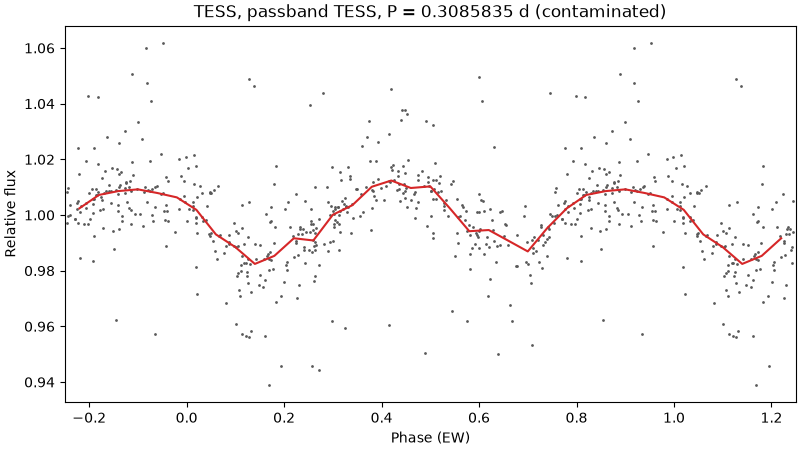
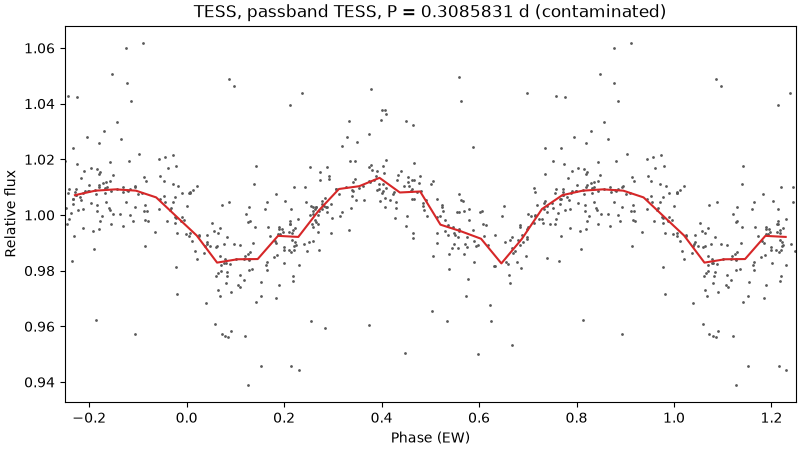
docs(guide): bring ASAS-SN into part 1's figures and text, and explain the two rules it forced (NEU-2186)
Re-run notebook 02 in the jupyter service so every figure carries ASAS-SN V
and g, with submission.png leading with the range band as propose does.

Chapter 3 says where ASAS-SN appears, adds the clean-source rule to
Agreement, rewrites the CSS_J160212.7+530724 blend for it (four
contaminated sources weigh 2.0, none clean), and explains the range band
and epoch band behind submission.png.

Chapter 4 re-dates the results table to a 2026-11-05 run with all five
sources (27 of 27 pass, ASAS-SN in 19 of 20 positives' Agreements), adds
a "What ASAS-SN changed" section and two threshold rows for the
clean-source rule and ASAS-SN's exclusion from the variability check,
and reports that one constant's ZTF g band now folds at 0.60 and votes
alone, under the 0.75 cut-off.

diff --git a/docs/guide/04-can-you-trust-it.md b/docs/guide/04-can-you-trust-it.md
@@ -34,38 +34,39 @@ constant must reach no Agreement or be flagged `blend_suspect`. A star the pipel
 known to fail is listed in the test with its reason, and the test fails if it ever starts
 passing, so the list has to be kept honest.
 
-## The results, 2026-10-20
+## The results, 2026-11-05
 
-Run on the committed fixtures with ZTF g, ZTF r, TESS and Gaia's published period. ASAS-SN
-was unavailable (NEU-1796). Flags are the blend check's: *blend* is `blend_suspect` (ZTF
-and Gaia), *asassn* and *tess* the other two surveys' contamination flags. They are judged
-from the Gaia catalogue, so the ASAS-SN flag is set even though no ASAS-SN Light Curve
-exists.
+Run on the committed fixtures with all five sources: ZTF g, ZTF r, ASAS-SN (V and g, one
+source), TESS and Gaia's published period. ASAS-SN joined the fixtures on 2026-11-02; this
+run also carries the TESS binning of NEU-2187. *Relation* is the Agreement's own: 2:1 when
+some sources found half the period and others the whole. Flags are the blend check's:
+*blend* is `blend_suspect` (ZTF and Gaia), *asassn* and *tess* the other two surveys'
+contamination flags.
 
 | Star | Role | VSX type | VSX period (d) | Agreed period (d) | Relation | Sources | Flags | CMD region | Gate |
 | --- | --- | --- | ---: | ---: | --- | --- | --- | --- | --- |
-| NSVS 2887379 | positive | EW | 0.27930 | 0.27929 | 2:1 | ZTF g, ZTF r, TESS, Gaia | tess | main sequence | passes |
-| ASASSN-V J164726.16+724659.3 | positive | EW | 0.30085 | 0.30085 | 1:1 | ZTF g, ZTF r, Gaia | tess | main sequence | passes |
-| LINEAR 20427289 | positive | EW | 0.31915 | 0.31915 | 1:1 | ZTF g, ZTF r, Gaia | tess | main sequence | passes |
-| ASASSN-V J163706.32+633921.6 | positive | EA | 1.30324 | 1.30330 | 1:1 | ZTF g, ZTF r, TESS, Gaia | tess | main sequence | passes |
-| DW Dra | positive | EA | 1.22625 | 1.22633 | 1:1 | ZTF g, ZTF r, TESS, Gaia | tess | main sequence | passes |
-| T-Dra0-09947 | positive | EA | 0.40982 | 0.40982 | 1:1 | ZTF g, ZTF r, TESS, Gaia | tess | main sequence | passes |
-| 1SWASP J191601.56+560055.3 | positive | EB | 0.32202 | 0.32202 | 1:1 | ZTF g, ZTF r, TESS, Gaia | asassn, tess | main sequence | passes |
-| CSS_J173907.6+550053 | positive | RRAB | 0.48585 | 0.48586 | 1:1 | ZTF g, ZTF r, Gaia | tess | instability strip | passes |
-| V0364 Dra | positive | RRAB | 0.47704 | 0.47705 | 1:1 | ZTF g, ZTF r, TESS, Gaia | tess | instability strip | passes |
-| V0502 Dra | positive | RRAB | 0.48013 | 0.48012 | 1:1 | ZTF g, ZTF r, TESS, Gaia | tess | instability strip | passes |
-| ASASSN-V J163919.05+740125.0 | positive | RRAB | 0.48897 | 0.48896 | 1:1 | ZTF g, ZTF r, TESS, Gaia | tess | instability strip | passes |
-| V0379 Dra | positive | RRC | 0.35762 | 0.35757 | 1:1 | ZTF g, ZTF r, TESS, Gaia | – | instability strip | passes |
-| ASASSN-V J164540.98+652508.2 | positive | RRC | 0.42448 | 0.42449 | 1:1 | ZTF g, ZTF r, Gaia | tess | unknown | passes |
-| ASASSN-V J170333.89+604850.1 | positive | DSCT | 0.05032 | 0.05032 | 1:1 | ZTF g, ZTF r, TESS, Gaia | tess | instability strip | passes |
-| V0553 Dra | positive | HADS | 0.17198 | 0.17198 | 1:1 | ZTF g, ZTF r | – | instability strip | passes |
-| KO Cep | positive | DCEP | 4.55809 | 4.55813 | 1:1 | ZTF g, ZTF r, TESS, Gaia | tess | giant branch | passes |
-| ASASSN-V J194707.50+750321.7 | positive | SR | 55.50 | 55.14 | 1:1 | ZTF g, ZTF r | tess | giant branch | passes |
-| ASASSN-V J192915.72+664402.8 | positive | SR | 42.25 | 42.26 | 1:1 | ZTF g, ZTF r | tess | giant branch | passes |
-| ASASSN-V J164537.58+592828.7 | positive | ROT | 12.09 | 12.122 | 1:1 | ZTF g, ZTF r, TESS | tess | main sequence | passes |
+| NSVS 2887379 | positive | EW | 0.27930 | 0.27929 | 2:1 | ZTF g, ZTF r, ASAS-SN, TESS, Gaia | tess | main sequence | passes |
+| ASASSN-V J164726.16+724659.3 | positive | EW | 0.30085 | 0.30085 | 2:1 | ZTF g, ZTF r, ASAS-SN, Gaia | tess | main sequence | passes |
+| LINEAR 20427289 | positive | EW | 0.31915 | 0.31915 | 2:1 | ZTF g, ZTF r, ASAS-SN, Gaia | tess | main sequence | passes |
+| ASASSN-V J163706.32+633921.6 | positive | EA | 1.30324 | 1.30329 | 1:1 | ZTF g, ZTF r, ASAS-SN, TESS, Gaia | tess | main sequence | passes |
+| DW Dra | positive | EA | 1.22625 | 1.22633 | 1:1 | ZTF g, ZTF r, ASAS-SN, TESS, Gaia | tess | main sequence | passes |
+| T-Dra0-09947 | positive | EA | 0.40982 | 0.40982 | 1:1 | ZTF g, ZTF r, ASAS-SN, TESS, Gaia | tess | main sequence | passes |
+| 1SWASP J191601.56+560055.3 | positive | EB | 0.32202 | 0.32202 | 1:1 | ZTF g, ZTF r, ASAS-SN, TESS, Gaia | asassn, tess | main sequence | passes |
+| CSS_J173907.6+550053 | positive | RRAB | 0.48585 | 0.48586 | 1:1 | ZTF g, ZTF r, ASAS-SN, Gaia | tess | instability strip | passes |
+| V0364 Dra | positive | RRAB | 0.47704 | 0.47704 | 1:1 | ZTF g, ZTF r, ASAS-SN, TESS, Gaia | tess | instability strip | passes |
+| V0502 Dra | positive | RRAB | 0.48013 | 0.48012 | 1:1 | ZTF g, ZTF r, ASAS-SN, TESS, Gaia | tess | instability strip | passes |
+| ASASSN-V J163919.05+740125.0 | positive | RRAB | 0.48897 | 0.48896 | 1:1 | ZTF g, ZTF r, ASAS-SN, TESS, Gaia | tess | instability strip | passes |
+| V0379 Dra | positive | RRC | 0.35762 | 0.35757 | 1:1 | ZTF g, ZTF r, ASAS-SN, TESS, Gaia | – | instability strip | passes |
+| ASASSN-V J164540.98+652508.2 | positive | RRC | 0.42448 | 0.42449 | 1:1 | ZTF g, ZTF r, ASAS-SN, Gaia | tess | unknown | passes |
+| ASASSN-V J170333.89+604850.1 | positive | DSCT | 0.05032 | 0.05032 | 1:1 | ZTF g, ZTF r, ASAS-SN, TESS, Gaia | tess | instability strip | passes |
+| V0553 Dra | positive | HADS | 0.17198 | 0.17198 | 1:1 | ZTF g, ZTF r, ASAS-SN | – | instability strip | passes |
+| KO Cep | positive | DCEP | 4.55809 | 4.55814 | 1:1 | ZTF g, ZTF r, ASAS-SN, TESS, Gaia | tess | giant branch | passes |
+| ASASSN-V J194707.50+750321.7 | positive | SR | 55.50 | 55.27 | 1:1 | ZTF g, ZTF r, ASAS-SN | tess | giant branch | passes |
+| ASASSN-V J192915.72+664402.8 | positive | SR | 42.25 | 42.25 | 1:1 | ZTF g, ZTF r, ASAS-SN | tess | giant branch | passes |
+| ASASSN-V J164537.58+592828.7 | positive | ROT | 12.09 | 12.111 | 1:1 | ZTF g, ZTF r, ASAS-SN, TESS | tess | main sequence | passes |
 | ASASSN-V J183551.48+614330.1 | positive | ROT | 2.53156 | 2.53305 | 1:1 | ZTF g, ZTF r | tess | main sequence | passes |
-| PS1-3PI J190107.42+492456.3 | alias trap | RRC | 0.46287 | 0.31617 | 1:1 | ZTF g, ZTF r, Gaia | tess | instability strip | passes |
-| CSS_J181701.4+514940 | alias trap | EW | 0.44657 | 0.30858 | 2:1 | ZTF g, ZTF r, TESS, Gaia | tess | main sequence | passes |
+| PS1-3PI J190107.42+492456.3 | alias trap | RRC | 0.46287 | 0.31616 | 1:1 | ZTF g, ZTF r, ASAS-SN, Gaia | tess | instability strip | passes |
+| CSS_J181701.4+514940 | alias trap | EW | 0.44657 | 0.30858 | 2:1 | ZTF g, ZTF r, ASAS-SN, TESS, Gaia | tess | main sequence | passes |
 | CSS_J160212.7+530724 | blend | EW | 0.31802 | – | – | – | asassn, blend, tess | unknown | passes |
 | CSS_J172350.6+504650 | blend | EW | 0.27008 | – | – | – | asassn, blend, tess | unknown | passes |
 | Gaia DR3 1435854639894380800 | constant | – | – | – | – | – | tess | giant branch | passes |
@@ -82,8 +83,13 @@ same table with the votes.
 differ in the fifth decimal for short periods, which is the precision seven years of ZTF
 buys, and by a fraction of a percent for the two semiregulars at 42 and 55 days, where a
 peak cannot be narrower. Fifteen of the twenty had a Gaia published period to vote with,
-and Gaia agreed with the surveys every time. One, NSVS 2887379, passed through a 2:1
-Agreement: ZTF r settled at half the period while the other three found the whole.
+and Gaia agreed with the surveys every time. ASAS-SN voted in nineteen of the twenty
+Agreements; the twentieth, ASASSN-V J183551.48+614330.1, is a faint rotator whose
+ASAS-SN folds explain too little to vote, and it agrees from ZTF g and r alone. Three
+contact binaries passed through a 2:1 Agreement. In each, ASAS-SN settled at half the
+period (for NSVS 2887379, one of its two bands, and ZTF r with it), where an `EW` star's
+two nearly equal eclipses fold onto each other (chapter 2's *Half periods*); the other
+sources found the whole, and the rule took the whole.
 
 **Both alias traps resolved to the true period.** PS1-3PI J190107.42+492456.3 is an RR
 Lyrae star VSX lists at 0.46287 days; the pipeline found 0.31617, the period VSX's value
@@ -91,13 +97,22 @@ is a 1-day alias of, from ZTF g, ZTF r and Gaia. CSS_J181701.4+514940 is the cas
 chapters 2 and 3. These test the one thing the bulk imports could not do: choose the
 right peak when the tallest one is wrong.
 
-**Both blends reached no Agreement and were flagged.** Every ground-based survey of each
-was flagged by the neighbour within 1.5″, and three half-weight votes fall short of two.
-These test whether the Gaia neighbour list reaches the pipeline and is used.
+**Both blends reached no Agreement and were flagged.** Every survey of each was flagged:
+ZTF, Gaia and ASAS-SN by the neighbour within 1.5″, TESS by its crowded field. All four
+sources, ZTF g, ZTF r, ASAS-SN and TESS, voted for the neighbour's period or half of it. Four half-weight votes add up to 2.0, which is
+all the weight an Agreement needs, and when ASAS-SN first arrived, before the clean-source
+rule, both blends got through that way. What stops them now is that not one of the four is
+clean (chapter 3, section 3.5). These test whether the Gaia neighbour list reaches the pipeline
+and is used.
 
-**The three constant stars cast no votes at all.** Each ZTF band's best fold scored 0.82
-to 0.99, above the 0.75 cut-off, so no period was offered and nothing could agree. These
-test whether the pipeline can say *nothing here*, which the bulk imports also could not.
+**The three constant stars reached no Agreement.** Every ASAS-SN and TESS band of the
+three folded at 0.97 to 0.99, and five of their six ZTF bands at 0.82 to 0.99, all above
+the 0.75 cut-off, so none of those offered a period. The sixth, ZTF g of Gaia DR3
+1435683567052954368, folds at 0.60 at 0.113 days, a 1-day alias of a box-fit peak in its
+own Light Curve, and so it votes. Nothing votes with it, so nothing is agreed: the cut-off
+let a band through, and the two-source rule caught it, which is the reason there are two
+rules. These test whether the pipeline can say *nothing here*, which the bulk imports also
+could not.
 
 ## The one failure, and how it was fixed
 
@@ -124,7 +139,8 @@ with the curve the band's other fields trace; what is left is the field's real z
 difference. On V0364 Dra the median rule said ZTF g's two fields differed by 0.12 mag; at
 equal phase they differ by 0.01. No positive is flagged now, both blends still are, by
 their neighbours, and the ROT star reaches Agreement at 12.122 days from ZTF g, ZTF r and
-TESS: two full votes and a half.
+TESS: two full votes and a half. With ASAS-SN it has a third full vote, and on the
+current run it agrees at 12.111 days.
 
 One caveat belongs with that result. Five of the fields that carried the old flags, with
 median offsets of 0.10 to 0.15 mag and the ROT star's 0.096, have only 2 to 9 points in
@@ -143,6 +159,42 @@ stayed shifted. On the fixtures this changes no gate result, and no positive's Z
 moves by more than 0.01 mag, because every field it moves by more than 0.03 mag holds only
 10 to 40 of its band's 500 points.
 
+## What ASAS-SN changed
+
+When ASAS-SN joined the fixtures on 2026-11-02, the gate failed in two places on its first
+run. Both were rules that had held only because a source was missing, and each was fixed
+with a new rule, not a new number.
+
+**An Agreement needs at least one clean source.** Weighing a contaminated source at half
+was meant to stop a neighbour's period from passing as the Target's. Without ASAS-SN, a
+blend's three contaminated sources weighed 1.5 and fell short of the 2 required. With it,
+four weighed 2.0, and both blends reached Agreement at the neighbour's period; the
+classifier went on to score them `DSCT` and `EW` at Confidence 1.0. The arithmetic was
+right and the reasoning was wrong: when every survey is looking through the same
+neighbour, they agree because they see the same thing, and adding more of them adds
+nothing. So weight is no longer enough on its own. At least one source at the period must
+be clean. On the fixtures this changes only the two blends: every positive and both alias
+traps have a clean ZTF band among their agreeing sources.
+
+**The constant-star check leaves ASAS-SN out.** When no period is agreed, the classifier
+still has to say whether the Target varies at all. A constant star (`CST`) and a slow
+irregular variable (`L`) both lack a period, and what tells them apart is whether the
+magnitudes spread further than their errors explain. That comparison is only as good as
+the errors, and ASAS-SN reports errors smaller than its real scatter: on the three
+constant stars its scatter is 1.8 to 3.2 times its reported error, where ZTF's is 0.95 to
+1.3 times. Measured against ASAS-SN's errors, the constants at G 13.7 and 14.0 seemed to
+spread 2.8 to 3.6 times their noise, well over the 2.0 a constant must stay under and, for
+one of them, past the 3.0 that marks a variable; both scored as irregular variables. So the
+check never measures ASAS-SN. It measures clean ZTF bands, which cover the same years to
+the same depth, and TESS when its field is clean; a Target with neither goes unmeasured
+rather than measured on the wrong errors. A correction factor on ASAS-SN's
+errors was considered and rejected: the understatement falls from 3.2 to 1.8 times
+between G 14 and G 15, and a factor fitted to three stars would describe only those three.
+
+Beyond the two rules, ASAS-SN added a fifth source behind most Agreements and the V-band
+range VSX prefers (chapter 3, section 3.8). No positive's Agreement moved off its
+published period.
+
 ## The thresholds were tuned on these 27 stars
 
 Several numbers in the pipeline are not derived from first principles. They were set
@@ -150,18 +202,21 @@ by looking at these stars, and the margins are thin:
 
 | Threshold | Value | What set it | Margin on the 27 |
 | --- | ---: | --- | --- |
-| Fold scatter above which a band does not vote | 0.75 | The constants' ZTF folds scored 0.82 to 0.99; every voting band of a positive scored 0.71 or less | One band at 0.71 (a δ Scuti star in ZTF r) and one at 0.82: a star either side would move the line |
+| Fold scatter above which a band does not vote | 0.75 | When it was set, the constants' ZTF folds scored 0.82 to 0.99 and every voting band of a positive 0.71 or less | Breached: one constant's ZTF g band now folds at 0.60 and votes, alone. The highest voting band of a positive is still 0.71 (a δ Scuti star in ZTF r) |
 | Period tolerance | 0.1 %, or P / baseline | ZTF g and r came out 0.10 to 0.17 % apart on the same 40-day peak under a fixed 0.1 % rule | Set by two semiregulars |
 | Neighbour radius and brightness for `blend_suspect` | 3″, brighter than G + 2 | VSX's contamination radii, widened for ZTF's seeing and Gaia's BP/RP windows | Both blends have neighbours at 1.2 and 1.5″; nothing tests a neighbour at 2.9″ |
 | ZTF zero-point offset, at equal phase | 0.05 mag | Spec, by assertion; measured at equal phase since NEU-1798 | Fires on none; the largest measured offset on a positive is 0.037 mag (the ROT star's ZTF r) |
 | TESS field brightness | G + 1, or half the Target's light combined | Spec, by assertion | Fires on 25 of 27 |
 | Points needed to search a band | 30 | Spec, by assertion | V0364 Dra's Gaia bands have 32 to 41 |
+| Clean sources among an Agreement's | at least 1 | ASAS-SN's arrival: both blends reached weight 2.0 from four contaminated sources at the neighbour's period | Changes only the two blends; every other Agreement on the 27 has a clean ZTF band among its sources |
+| Surveys the constant-star check measures | clean ZTF and TESS, never ASAS-SN | ASAS-SN's arrival: on the constants ASAS-SN's scatter is 1.8 to 3.2 times its reported errors, ZTF's 0.95 to 1.3 | In ZTF the constants spread at most 1.4 times their errors, under the 2.0 a constant must stay below; measured on ASAS-SN, two of them spread 2.8 to 3.6 times and scored as irregular variables |
 
 The gate is a regression test: it says the pipeline has not got worse on these stars. It
-is not a measurement of how often the pipeline is right on a star it has never seen. Every
-number above may move when ASAS-SN arrives, and will have to be re-examined on the first
-real [Slice](../../CONTEXT.md#selection), where there will be stars of types and periods
-the fixtures do not contain.
+is not a measurement of how often the pipeline is right on a star it has never seen.
+ASAS-SN moved none of the numbers above; it moved the rules instead. On the current run
+one constant's ZTF g band sits under the fold-scatter line. Every number will have to be
+re-examined on the first real [Slice](../../CONTEXT.md#selection), where there will be
+stars of types and periods the fixtures do not contain.
 
 ## What the pipeline cannot know
 
@@ -193,8 +248,13 @@ makes in his [Review](../../CONTEXT.md#proposals-and-review), with the
   published study with better data than any survey. Read the entry before proposing a
   change to it; VSX's rules expect the revision comment to say why the new value is better
   than the old.
-- **Anything ASAS-SN would say.** Until NEU-1796, every Agreement here rests on at most
-  four sources, and the V-band range VSX prefers is not available.
+- **Whether ASAS-SN can see a faint star.** ASAS-SN reaches about 16.5 mag, and the
+  Slice runs to 16. It voted for 19 of the 20 positives, but the one it missed,
+  ASASSN-V J183551.48+614330.1, is at G 15.2, and fainter Targets will lose it more often.
+  When ASAS-SN drops out, an Agreement rests on one source fewer, and when its V band is
+  short of points or contaminated, the range comes from another band, named on the
+  Proposal. A range in V and a range in g are not interchangeable; check which one you
+  are reading.
 
 ## Before the first submission
 

diff --git a/docs/guide/03-reading-the-evidence.md b/docs/guide/03-reading-the-evidence.md
@@ -33,10 +33,11 @@ cannot.
 | **Gaia DR3** | ESA's astrometry mission; a scan of the whole sky, 2014–2017 | G, BP, RP | A few dozen visits over 34 months | 0.7″ | 5–21 mag | Precise positions, so it finds neighbours; parallax and colour for the CMD; its own published period for many stars | Too few visits to settle a period from its photometry alone |
 | **ASAS-SN** | Small telescopes on several continents imaging the whole sky nightly since 2012 | V (to 2018), g (since 2017) | Nightly; 12 years | 8″ pixels, 17″ aperture | 10–16.5 mag | The longest baseline, and the V band VSX prefers for ranges | Coarse pixels, so blends within 17″; our Slice is at its faint end |
 
-ASAS-SN is absent from every figure in this guide. Its light-curve service was down while
-the fixtures were built, and NEU-1796 adds it. When it arrives it will be one more series
-on the combined plot, one more panel on the periodogram, and one more vote in Agreement,
-and V-band ranges for the form.
+ASAS-SN turns up in four places below. Its V and g bands are two more series on the
+combined plot and two more pairs of panels on the periodogram (section 3.3). Together they
+cast one vote in Agreement, because one instrument puts the same aliases into both
+(section 3.5). And when ASAS-SN is not contaminated, its V band is where the Proposal's
+magnitude range is read from, because V is the band VSX prefers for ranges (section 3.8).
 
 **The combined light curve** (`combined.png`) is the first thing to look at: every survey
 on one time axis. The horizontal axis is time in days (BJD_TDB, the time system every
@@ -47,9 +48,11 @@ to the level of the others. Here is V0364 Dra:
 
 ![V0364 Dra, all surveys](figures/v0364-dra/combined.png)
 
-What to notice: ZTF (circles) spans the whole seven years; TESS (dots) comes in dense
-clumps, one per 27-day sector, in the years it happened to point this way; Gaia (squares)
-is a sprinkle of points in 2014–2017. The star scatters over about a magnitude at every
+What to notice: ZTF (circles) spans the whole seven years; ASAS-SN (triangles) reaches
+back further, its V band covering late 2013 to 2018, mostly before ZTF began, and its g
+band running alongside ZTF from 2017; TESS (dots) comes in dense clumps, one per 27-day sector, in the
+years it happened to point this way; Gaia (squares) is a sprinkle of points in 2014–2017.
+The star scatters over about a magnitude at every
 epoch, which is the pulsation seen without a period. The legend already says
 *(contaminated)* against TESS; section 3.6 explains what that means for this star. VSX asks for exactly this plot with a data-mined submission, and forbids one copied
 from a survey's website.
@@ -68,8 +71,10 @@ Before any search, each Light Curve is cleaned (`analysis/clean.py`):
 On the committed fixtures nothing is clipped, because they are trimmed to 500 points a
 band and no two TESS points are close enough; on a full TESS sector it matters. The
 notebook prints the before-and-after count per band. For V0364 Dra every band survives:
-ZTF g and r with 500 points each over 2,770 days, TESS with 500 from sectors spread over
-1,770 days, and Gaia's three bands with 32 to 41 points over 900 days.
+ZTF g and r with 500 points each over 2,770 days, ASAS-SN g with 500 over 2,810 days and
+V with 295 over 1,710, TESS with 499 from sectors spread over 1,770 days (two of its 500
+points fall in one of the 10-minute bins TESS is averaged into after cleaning, NEU-2187),
+and Gaia's three bands with 32 to 41 points over 900 days.
 
 ## 3.3 The periodogram
 
@@ -94,13 +99,13 @@ found it.
 
 ![V0364 Dra periodogram](figures/v0364-dra/periodogram.png)
 
-What to notice for V0364 Dra: the same tall peak at 0.477 days in ZTF g, ZTF r and TESS,
-with the Gaia line on top of it. Now look at the dashed lines in the ZTF panels: there is
-a peak under every one of them. At 0.32 days and 0.24 days, at 0.95 days, even at 10
+What to notice for V0364 Dra: the same tall peak at 0.477 days in ZTF g, ZTF r, both
+ASAS-SN bands and TESS, with the Gaia line on top of it. Now look at the dashed lines in
+the ZTF and ASAS-SN panels: there is a peak under every one of them. At 0.32 days and 0.24 days, at 0.95 days, even at 10
 days, the same pulsation shows up wherever once-a-night sampling can put it, and the
 0.32-day peak is nearly as tall as the real one. This is chapter 2's alias problem in a
 picture, and the periodogram alone cannot settle it; the next step does, by folding, and
-the fold at 0.3227 days scores 0.45 against 0.04 at 0.477 days. Gaia's own three bands,
+the fold at 0.3227 days scores 0.45 against 0.03 at 0.477 days. Gaia's own three bands,
 with 32 to 41 points, are a forest of peaks of similar height, which is why Gaia's
 photometry never decides a period on its own.
 
@@ -195,20 +200,29 @@ Each source votes with the period its alias test ranked first. The rules on the 
   Agreement, and the longer period wins, because it is the one that separates an eclipsing
   binary's two eclipses. The relation is recorded for the classifier.
 - **A contaminated source counts half** (section 3.6).
+- **At least one agreeing source must be clean.** Several surveys can all be seeing the
+  same bright neighbour, and when they are they agree with each other perfectly, on the
+  neighbour's period. Agreement between them proves nothing about the Target. So however
+  much contaminated weight lines up behind a period, it needs one uncontaminated source
+  beside it. Four contaminated sources weigh 2.0, as much as two clean ones, and without
+  this rule they would be enough (section 3.6 has the star where that happens).
 - **The period most sources found wins; a tie is no Agreement.** When two periods have
   equal weight, nothing is accepted. The bulk imports' rule, take the tallest peak, is
   exactly what this refuses to do.
 
-For V0364 Dra the notebook's votes table reads: TESS 0.477045, ZTF g 0.477041, ZTF r
-0.477038, Gaia 0.477059, all within 0.1 %; Agreement at 0.4770454 days, relation 1:1. The
-star is settled four ways.
+For V0364 Dra the notebook's votes table reads: ASAS-SN 0.477032 in V and 0.477038 in g,
+TESS 0.477045 (at half weight, its field being crowded), ZTF g 0.477041, ZTF r 0.477040,
+Gaia 0.477059, all within 0.1 %; Agreement at 0.4770423 days, relation 1:1. The star is
+settled five ways.
 
-For CSS_J181701.4+514940: ZTF g, ZTF r and TESS each vote 0.154292 days, Gaia 0.308582;
-Agreement at 0.3085835 days, relation 2:1. Three surveys found the half period and Gaia
-the whole, and the rule took the whole.
+For CSS_J181701.4+514940: ZTF g, ZTF r, ASAS-SN and TESS each vote 0.15429 days, Gaia
+0.308582; Agreement at 0.3085831 days, relation 2:1. Four surveys found the half period and
+Gaia the whole, and the rule took the whole.
 
-The review app's evidence page will list the votes this way; in the notebook, look for
-the table after each star's **Agreement** heading.
+The table lists ASAS-SN's two bands on two rows, each with its weight, but they are one
+source: ASAS-SN counts once towards the total. The review app's evidence page will list the
+votes this way; in the notebook, look for the table after each star's **Agreement**
+heading.
 
 ## 3.6 Blends and contamination radii
 
@@ -236,16 +250,19 @@ in the TESS field.
 
 CSS_J160212.7+530724 is the case the rule exists for. The neighbour at 1.2″ is 1.9 mag
 brighter, so ZTF, Gaia and ASAS-SN are all flagged, and the TESS field is flagged on its
-own account. The flags come from the Gaia catalogue, not from the survey's data, which is
-why ASAS-SN is flagged although no ASAS-SN Light Curve exists yet. ZTF g, ZTF r and TESS all vote 0.159 days, which would be an easy Agreement,
-but at half weight each they add up to 1.5 of the 2 required. No Agreement, no phase plot,
-no period proposed.
+own account. The flags come from the Gaia catalogue, not from the surveys' Light Curves: a
+neighbour that close and that bright is inside every ground-based aperture, whatever the
+light curves look like. ZTF g, ZTF r, ASAS-SN and TESS all vote 0.159 days, half the
+neighbour's eclipsing period. At half weight each, the four add up to 2.0, exactly the two
+sources' weight an Agreement needs. What stops it is the clean-source rule of section 3.5:
+not one of the four is clean, and four surveys agreeing on the neighbour's period are no
+evidence that it is this star's. No Agreement, no phase plot, no period proposed.
 
 ![CSS_J160212.7+530724, all surveys](figures/css-j160212-7-530724/combined.png)
 
 What to notice: the star looks like a perfectly good variable. But read the magnitude
-axis. Gaia puts this star at G = 15.7, and ZTF reports it at 13.6 to 14.1: ZTF's aperture
-is measuring mostly the neighbour. That is the one hint in the light curve itself; the
+axis. Gaia puts this star at G = 15.7, and ZTF and ASAS-SN both report it near 14, a
+magnitude and a half too bright: their apertures are measuring mostly the neighbour. That is the one hint in the light curve itself; the
 rest is the catalogue of positions saying whose light it is.
 
 Two honest caveats about the TESS and ZTF flags, which chapter 4 returns to. TESS's
@@ -299,17 +316,26 @@ sequence, the Cepheid and both semiregulars on the giant branch.
 
 ## 3.8 What goes to VSX
 
-`submission.png` is the one image the revision form accepts: the phase plot of the band
-with the most points (or the one the Review chooses) above the combined light curve,
-rendered under the form's 1 MB limit.
+`submission.png` is the one image the revision form accepts: the phase plot of the
+[range band](../../CONTEXT.md#proposals-and-review) above the combined light curve,
+rendered under the form's 1 MB limit. The range band is the Light Curve the Proposal's
+magnitude range is read from. VSX prefers ranges in V, so it is ASAS-SN V whenever ASAS-SN
+has enough V points and is not contaminated (NEU-2185); a neighbour inside its 17″
+aperture adds light to every point, and a range read through it would be the two stars
+together. Otherwise it is the [epoch band](../../CONTEXT.md#proposals-and-review): the
+magnitude band with a VSX passband that has the most points, TESS's flux next, Gaia's few
+dozen epochs last. Leading with the range band means the moderator sees the very curve the
+range was read from. For V0364 Dra it is ASAS-SN V:
 
 ![V0364 Dra submission plot](figures/v0364-dra/submission.png)
 
 Alongside it the Proposal carries the form's fields, in the vocabulary of
 [`docs/reference/vsx-revision-form.md`](../reference/vsx-revision-form.md): the period to the
 precision the data justify, the epoch in HJD, the type, the magnitude range at maximum and
-minimum in a named passband read from the binned curve, and the Remarks sentences for any
-contamination. A Target with no Agreement gets `submission.png` as the combined light
+minimum in a named passband read from the range band's binned curve, and the Remarks
+sentences for any contamination. The epoch is always read from the epoch band, even when
+the range comes from ASAS-SN V: V stopped in 2018, and a band with more points over a later
+baseline pins phase 0 down better. A Target with no Agreement gets `submission.png` as the combined light
 curve alone and a Proposal of type `VAR` with low Confidence, so that the failure is
 visible rather than silent.
 

diff --git a/docs/guide/README.md b/docs/guide/README.md
@@ -41,9 +41,6 @@ stars take about three minutes together.
   tracker. That is part 2 of the guide (NEU-1801), written once those exist.
 - **Type classification** beyond what a type means. The classifier rules arrive in
   milestone 4.
-- **ASAS-SN evidence.** Sky Patrol was down while the fixtures were built, so ASAS-SN is a
-  coverage gap in every figure here. Chapter 3 says where it will appear once NEU-1796
-  adds it.
 
 Terms in **bold** on first use are the project's shared vocabulary, defined in
 [`CONTEXT.md`](../../CONTEXT.md). The technical contract behind every section is the
